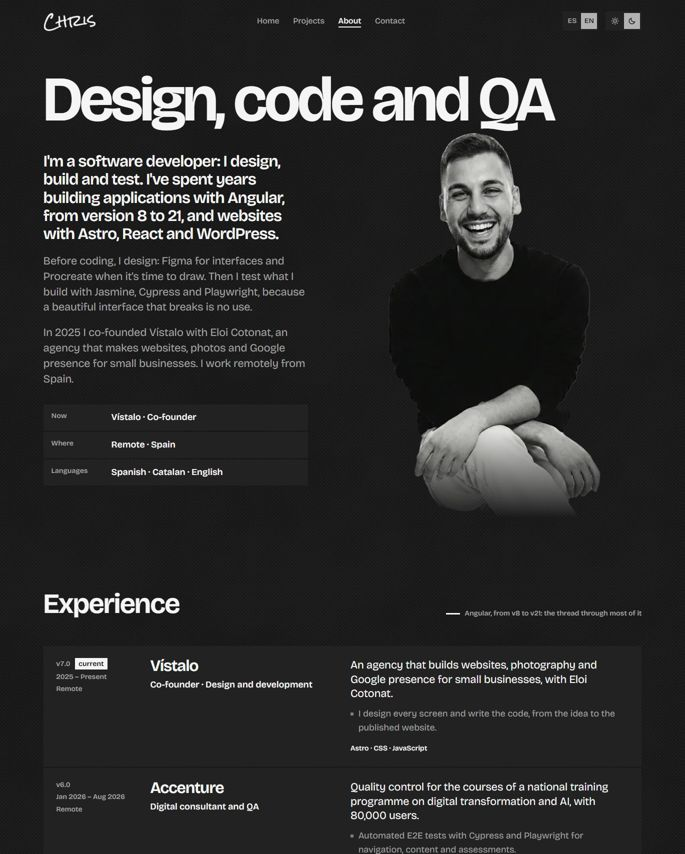
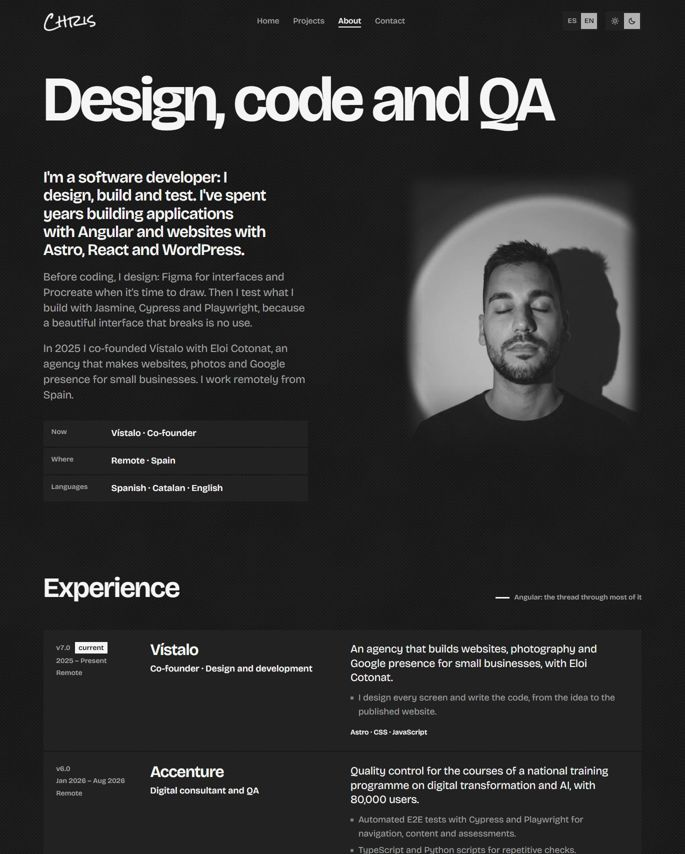
chore: refresh the canvas thumbnails after the About photo; note the approval

diff --git a/docs/referencias/roadmap-prototipo-def.md b/docs/referencias/roadmap-prototipo-def.md
@@ -944,8 +944,8 @@ igual: un punto por parada y la casilla se marca con su visto bueno.
     sigue viendo al llegar con el teclado, que es lo que indica dónde está el foco.
   - Las miniaturas del lienzo de todas las páginas se rehicieron al cerrar la tanda.
 
-- [ ] **Sobre mí: foto nueva y Angular sin versiones** (hecho el 20 nov, pendiente de su visto
-  bueno):
+- [x] **Sobre mí: foto nueva y Angular sin versiones** (hecho y aprobado el 20 nov; miniaturas
+  del lienzo rehechas):
   - **Foto**: el retrato de la luz circular que pasó él, **en blanco y negro**
     (`src/assets/images/about.jpg`, hecha con `.taste-skill/recorte/sobre-mi.cjs`; el original en
     color, en `docs/imgs/sobre-mi-luz.jpg`). La misma en los dos modos, encuadrada en 4:5 sobre el
@@ -958,7 +958,6 @@ igual: un punto por parada y la casilla se marca con su visto bueno.
     "v8 → v15" (bio de Sobre mí en los dos idiomas, el rótulo del hilo de la trayectoria, la etapa
     de la cronología y las herramientas por lente). Las etiquetas "v7.0, v6.0…" de la trayectoria
     no son de Angular: son la numeración de las etapas y se quedan.
-  - Al aprobarlo: rehacer las miniaturas del lienzo de Sobre mí y de la home.
 
 ## Fase técnica (después del 10 de diseño)
 
